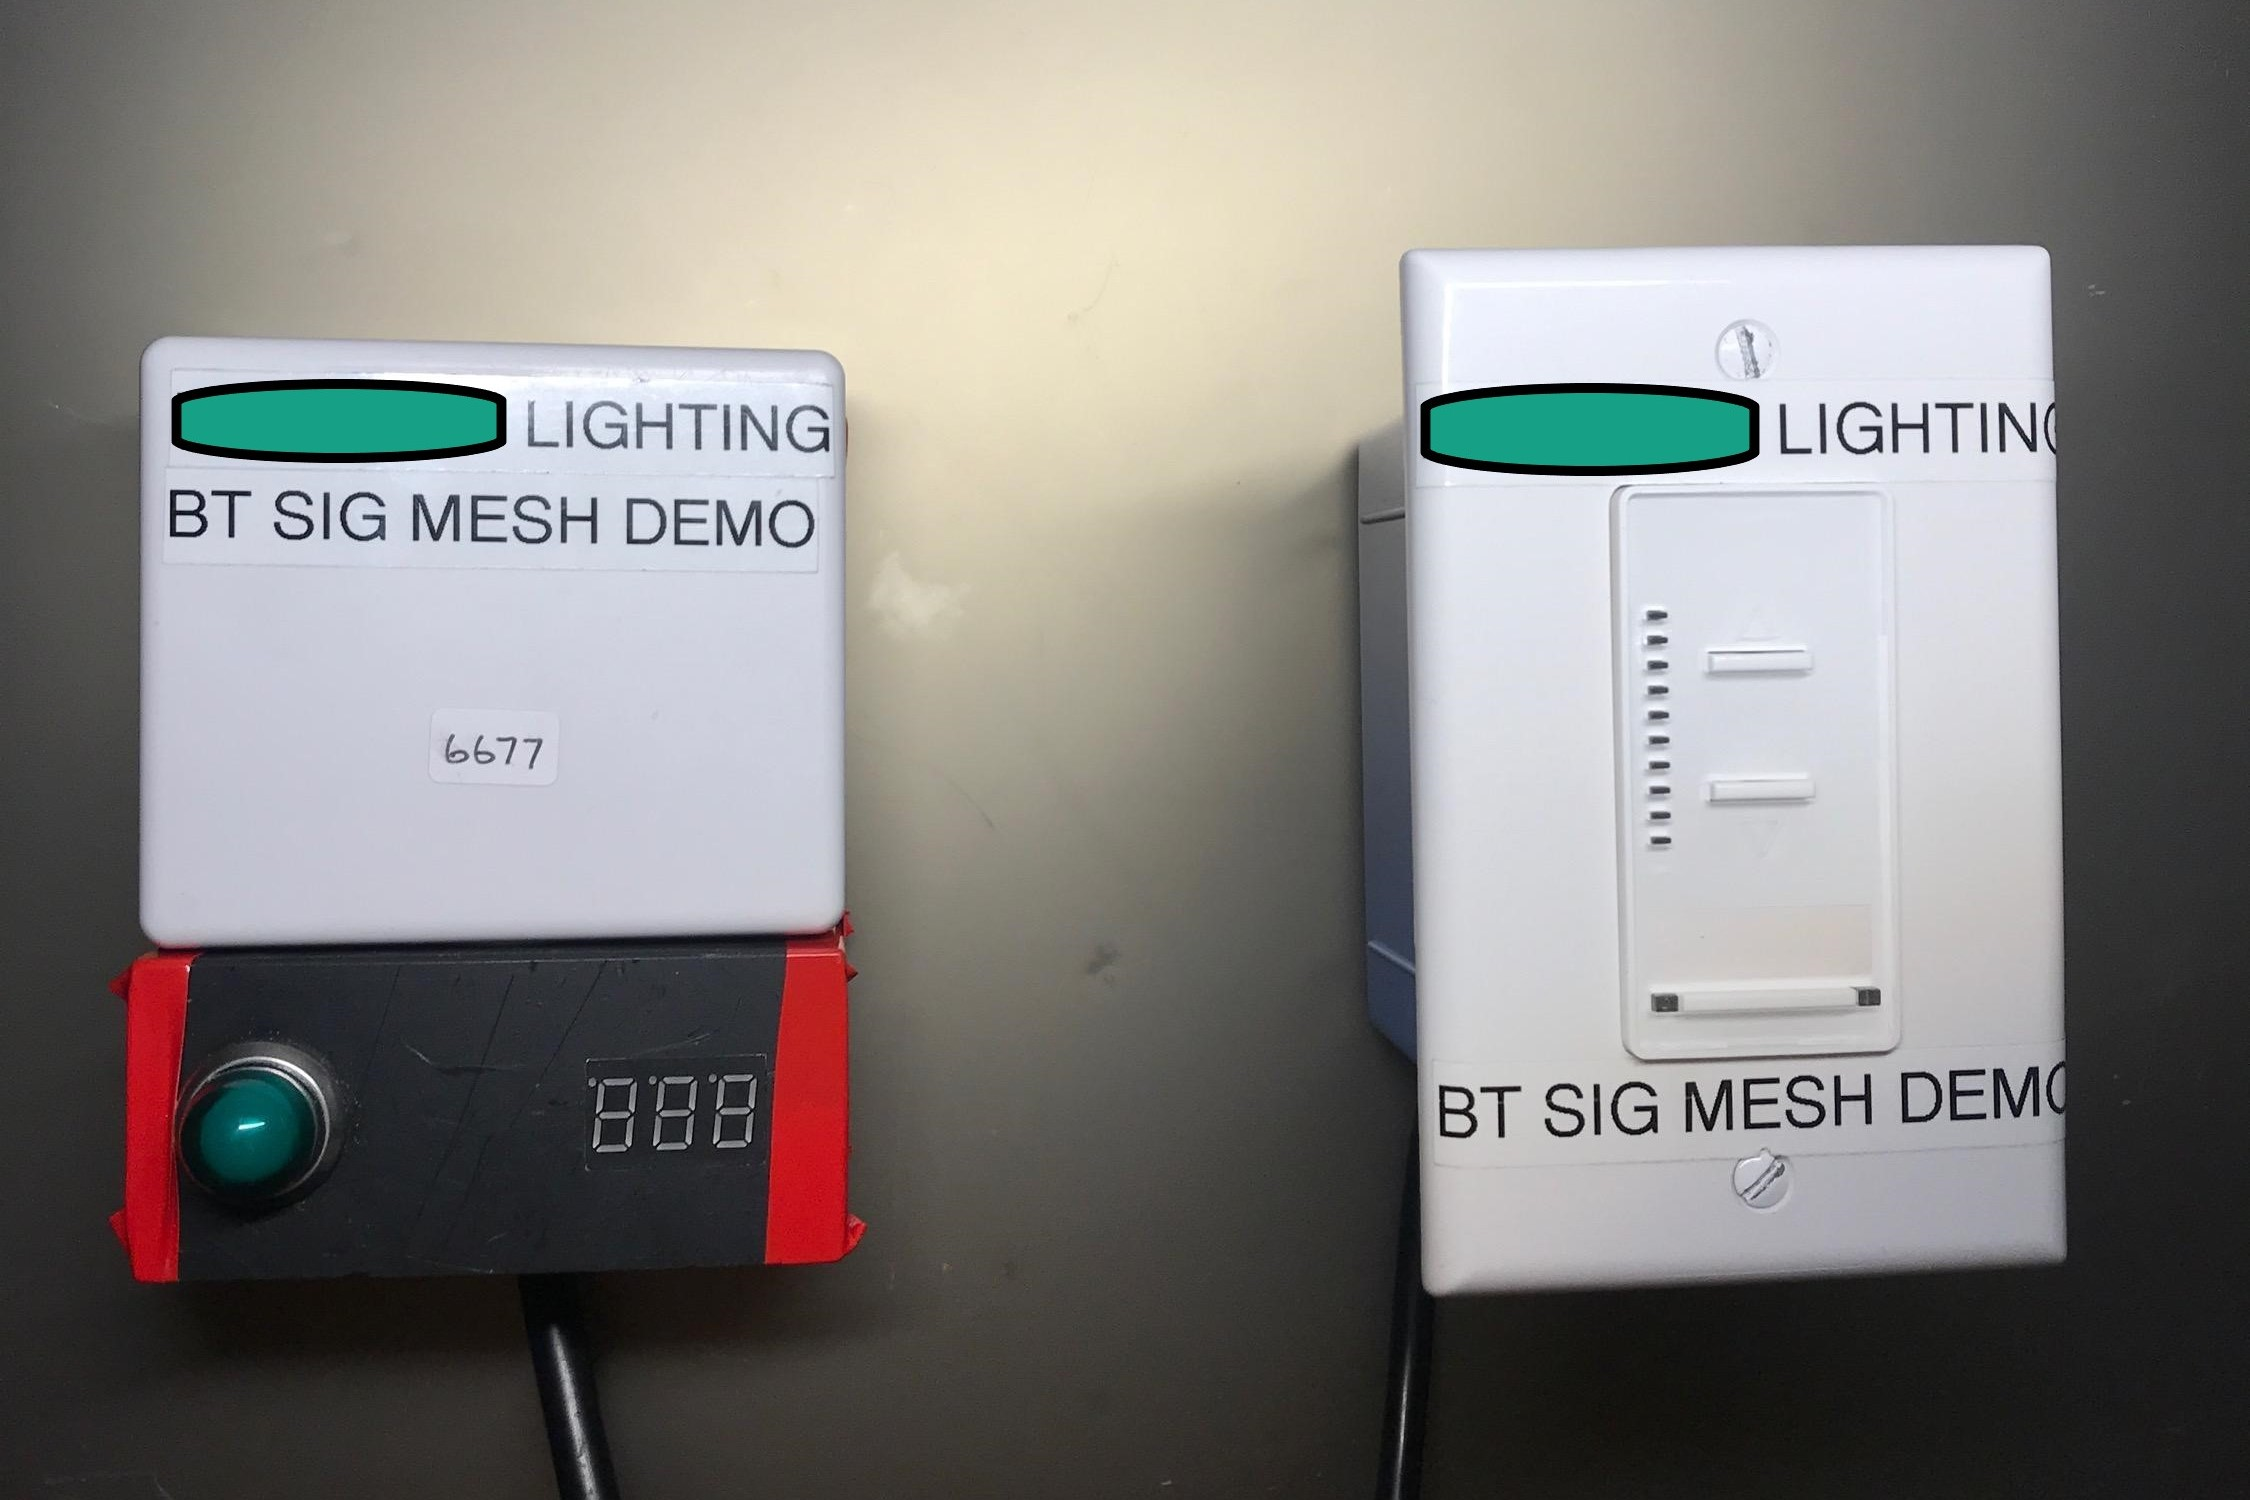
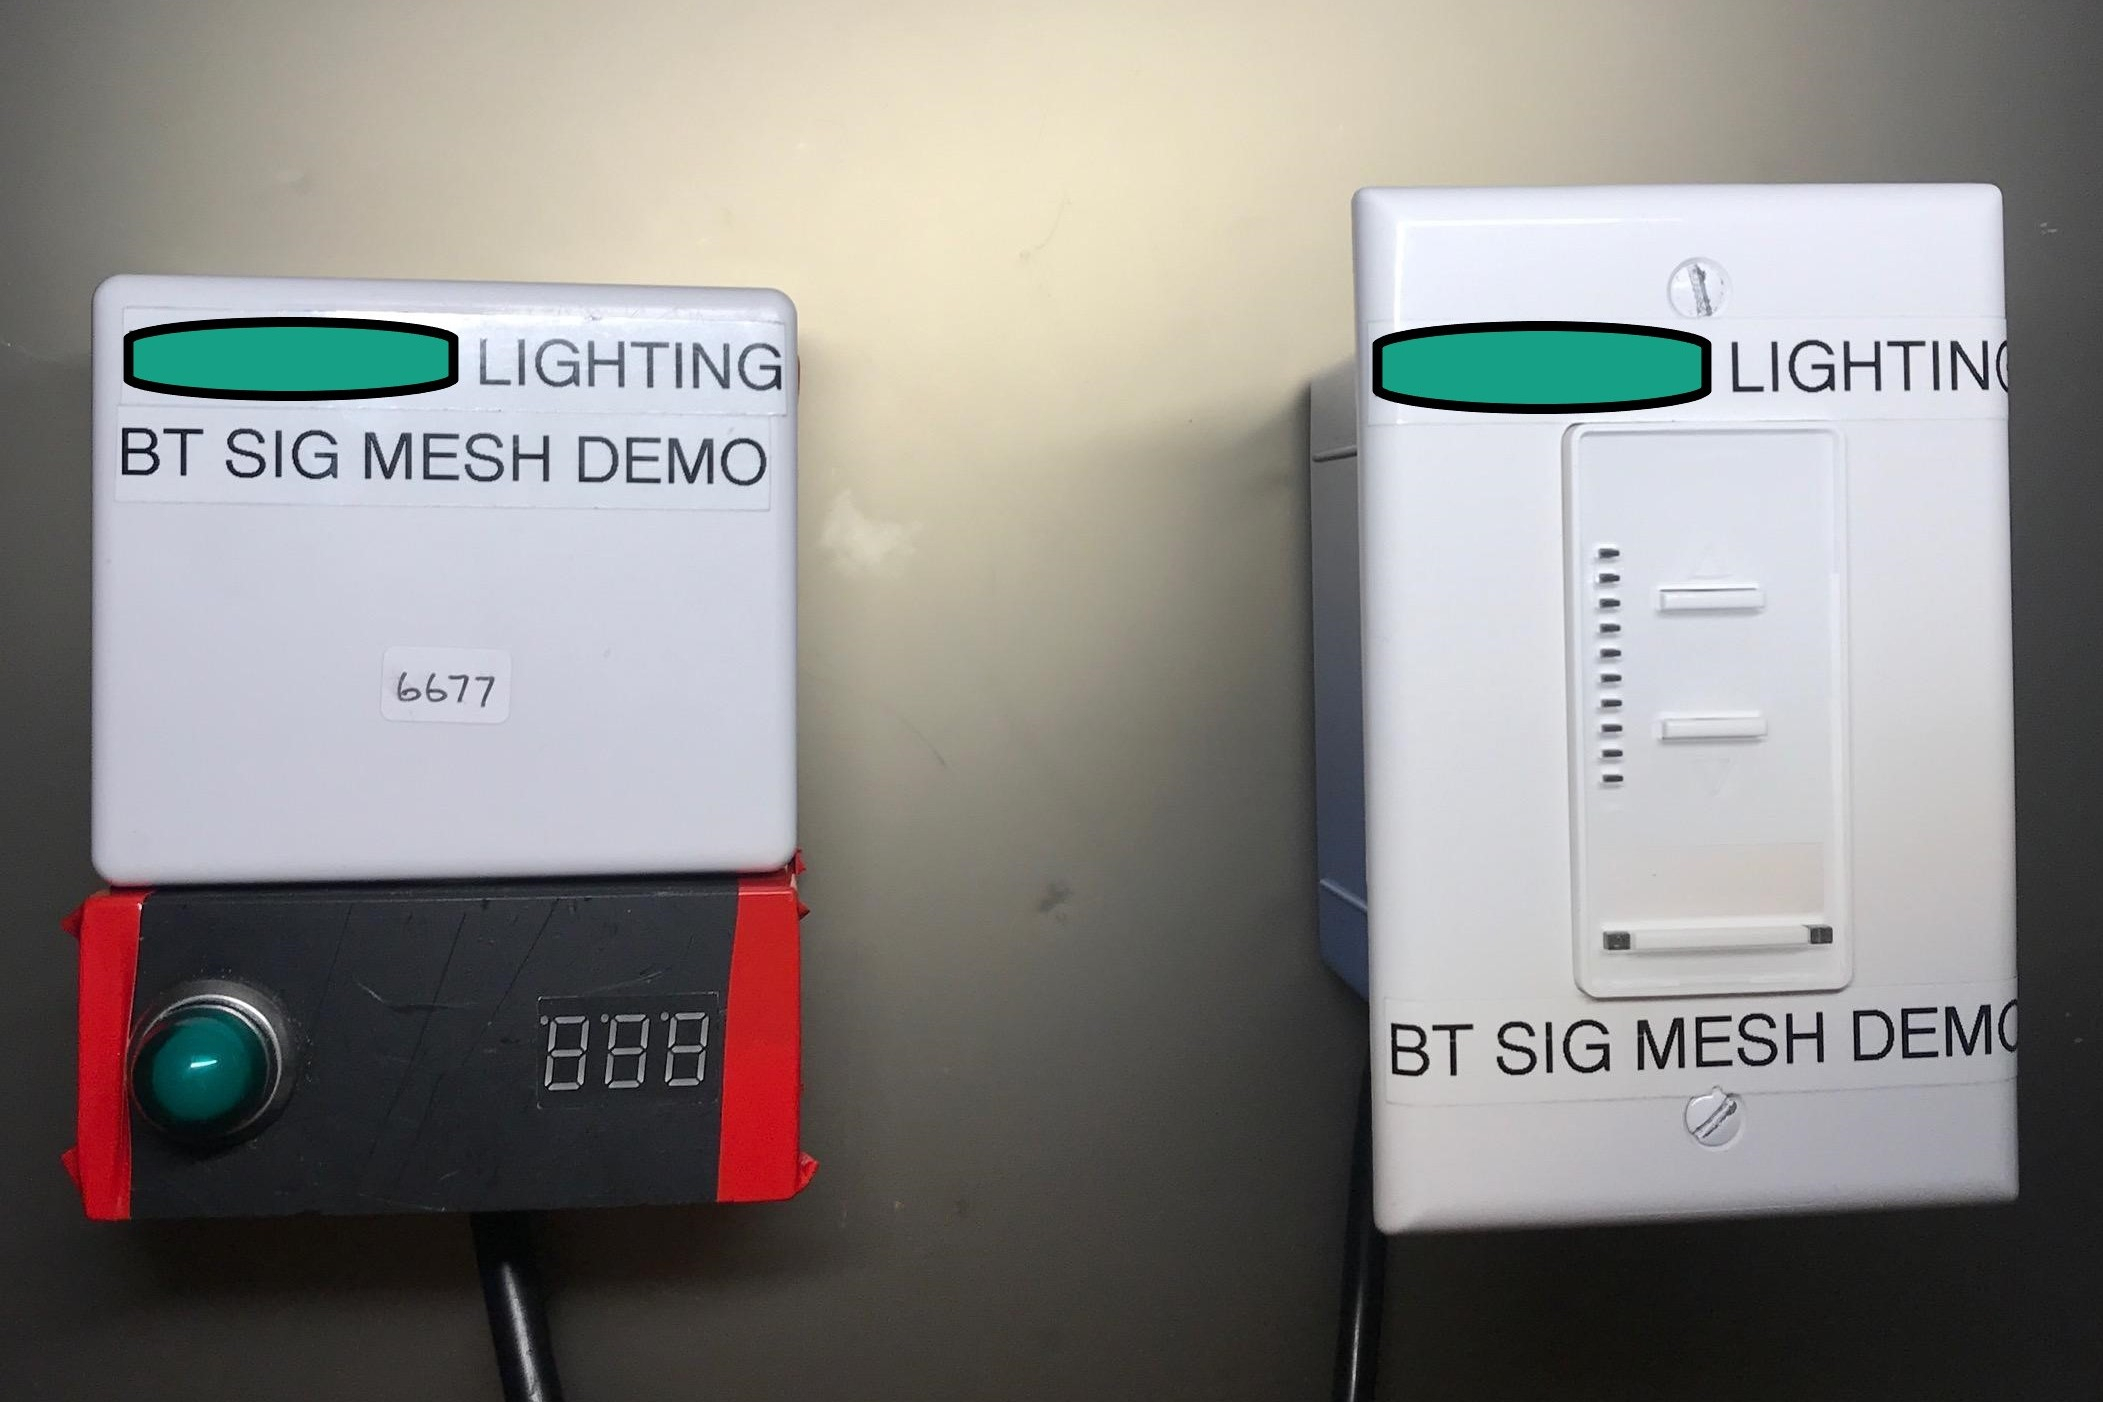
Added BT Switch project. Fixed links to that page.

diff --git a/projects/btswitch.html b/projects/btswitch.html
@@ -63,8 +63,7 @@
     <div class="container">
       <div class="row">
         <div class="col-lg-6 col-lg-offset-3">
-          <h4>NEW WEBSITE FOR</h4>
-          <h1>INSTANT</h1>
+          <h1>BLUETOOTH LIGHT SWITCH</h1>
           <h4>ROLE: LEAD DESIGNER</h4>
         </div>
       </div>
@@ -77,14 +76,44 @@
     <div class="row centered mt mb">
       <div class="col-lg-8 col-lg-offset-2">
         <h4>ABOUT THE PROJECT</h4>
-        <p>Lorem Ipsum is simply dummy text of the printing and typesetting industry. Lorem Ipsum has been the industry's standard dummy text ever since the 1500s, when an unknown printer took a galley of type and scrambled it to make a type specimen book.
-          It has survived not only five centuries, but also the leap into electronic typesetting, remaining essentially unchanged.</p>
+        <p>Our client had a working Bluetooth mesh light switch running on the CSR API. When CSR and BT SIG joined forces,
+          our clients hardware and firmware went out of date. My task was to get the client's existing devices running on BT SIG mesh API.
+          My task was to provide a proof of concept that the client could take to a conference to show off.
+        </p>
       </div>
       <div class="col-lg-10 col-lg-offset-1 mt">
-        <img class="img-responsive" src="../img/pr01.jpg">
-        <br>
-        <img class="img-responsive" src="../img/pr02.jpg">
-      </div>
+          <img class="img-responsive" src="../img/portfolio/btsig2.jpg">
+        </div>
+        <div class="col-lg-8 col-lg-offset-2">
+            <h4>IMPROVISE, ADAPT, OVERCOME</h4>
+            <p>For this project, I was given the existing hardware for a light switch and a lighting control box. As well as the schematics for each.
+              My task was to reverse engineer the existing design, and hack a new microcontroller into it. All while retaining original functionality. 
+              The above image is a qualcomm IoT development board flashed with custom firmware strapped to the back of the existing hardware with control 
+              wires running inside for I/O.
+            </p>
+        </div>
+        <div class="col-lg-10 col-lg-offset-1 mt">
+          <img class="img-responsive" src="../img/portfolio/btsig3.jpg">
+        </div>
+        <div class="col-lg-8 col-lg-offset-2">
+            <h4>PRESENTABILITY</h4>
+            <p>As mentioned above, this switch was destined for display at a conference. So, while functional, the bare board wouldnt cut it. Luckily, 
+              light switches are built in standard sizes, so a quick trip to the ACE Hardware down the road gave me a perfect enclosure. </p>
+        </div>
+        <div class="col-lg-10 col-lg-offset-1 mt">
+            <img class="img-responsive" src="../img/portfolio/btsig1.jpg">
+        </div>
+        <div class="col-lg-8 col-lg-offset-2">
+        <h4>DEMONSTRATION</h4>
+        <p>How do you show people a light control box works without a light attatched to it? <br> You figure it out! <br> Attached to the light control box (left)
+          is a 120 VAC indicator light and a 0-100VDC voltimeter display for the 0-10V dimming control. <br>
+          <br>
+          Since this project was done for a client, I am unable to show schematics or firmware. If you want to checkout something I can show, head over to my 
+          <a href="povwand.html">persistance of vision display</a> project!
+        </p>
+        </div>
+    </div>
+    
 
     </div>
   </div>

diff --git a/projects/povwand.html b/projects/povwand.html
@@ -60,6 +60,7 @@
 
 
   <div id="workwrap">
+
     <div class="container">
       <div class="row">
         <div class="col-lg-6 col-lg-offset-3">
@@ -120,7 +121,7 @@
           <h4>CHECK IT OUT</h4>
           <p>Presentation is half the battle, if you can't get your ideas across to your audience then they will fall flat. 
             This video presentation is our way of telling you exactly how we accomplished this task. 
-            If you want to dive into our firmware, check out our <a href= "https://github.com/SYLiu15/JuniorDesignAP1_POV">github repository</a>.</p>
+            If you want to dive into our documentation, check out our <a href= "https://drive.google.com/drive/folders/13Z8FO7Bw6-lK8Ny6P8qiwyPcx7B7aRBM?usp=sharing">google folder</a>.</p>
       </div>
 
     </div>

diff --git a/index.html b/index.html
@@ -82,7 +82,7 @@
         <a href="projects/povwand.html"><img src="img/portfolio/pov1.jpg" class="img-responsive"></a>
       </div>
       <div class="col-lg-4 col-md-4 col-sm-4 gallery">
-        <a href="projects/underconstruction.html"><img src="img/portfolio/btsig1.jpg" class="img-responsive"></a>
+        <a href="projects/btswitch.html"><img src="img/portfolio/btsig1.jpg" class="img-responsive"></a>
       </div>
       <div class="col-lg-4 col-md-4 col-sm-4 gallery">
         <a href="projects/underconstruction.html"><img src="img/portfolio/eq1.jpg" class="img-responsive"></a>

diff --git a/projects.html b/projects.html
@@ -80,7 +80,7 @@
         <a href="projects/povwand.html"><img src="img/portfolio/pov1.jpg" class="img-responsive"></a>
       </div>
       <div class="col-lg-4 col-md-4 col-sm-4 gallery">
-        <a href="projects/underconstruction.html"><img src="img/portfolio/btsig1.jpg" class="img-responsive"></a>
+        <a href="projects/btswitch.html"><img src="img/portfolio/btsig1.jpg" class="img-responsive"></a>
       </div>
       <div class="col-lg-4 col-md-4 col-sm-4 gallery">
         <a href="projects/underconstruction.html"><img src="img/portfolio/eq1.jpg" class="img-responsive"></a>
